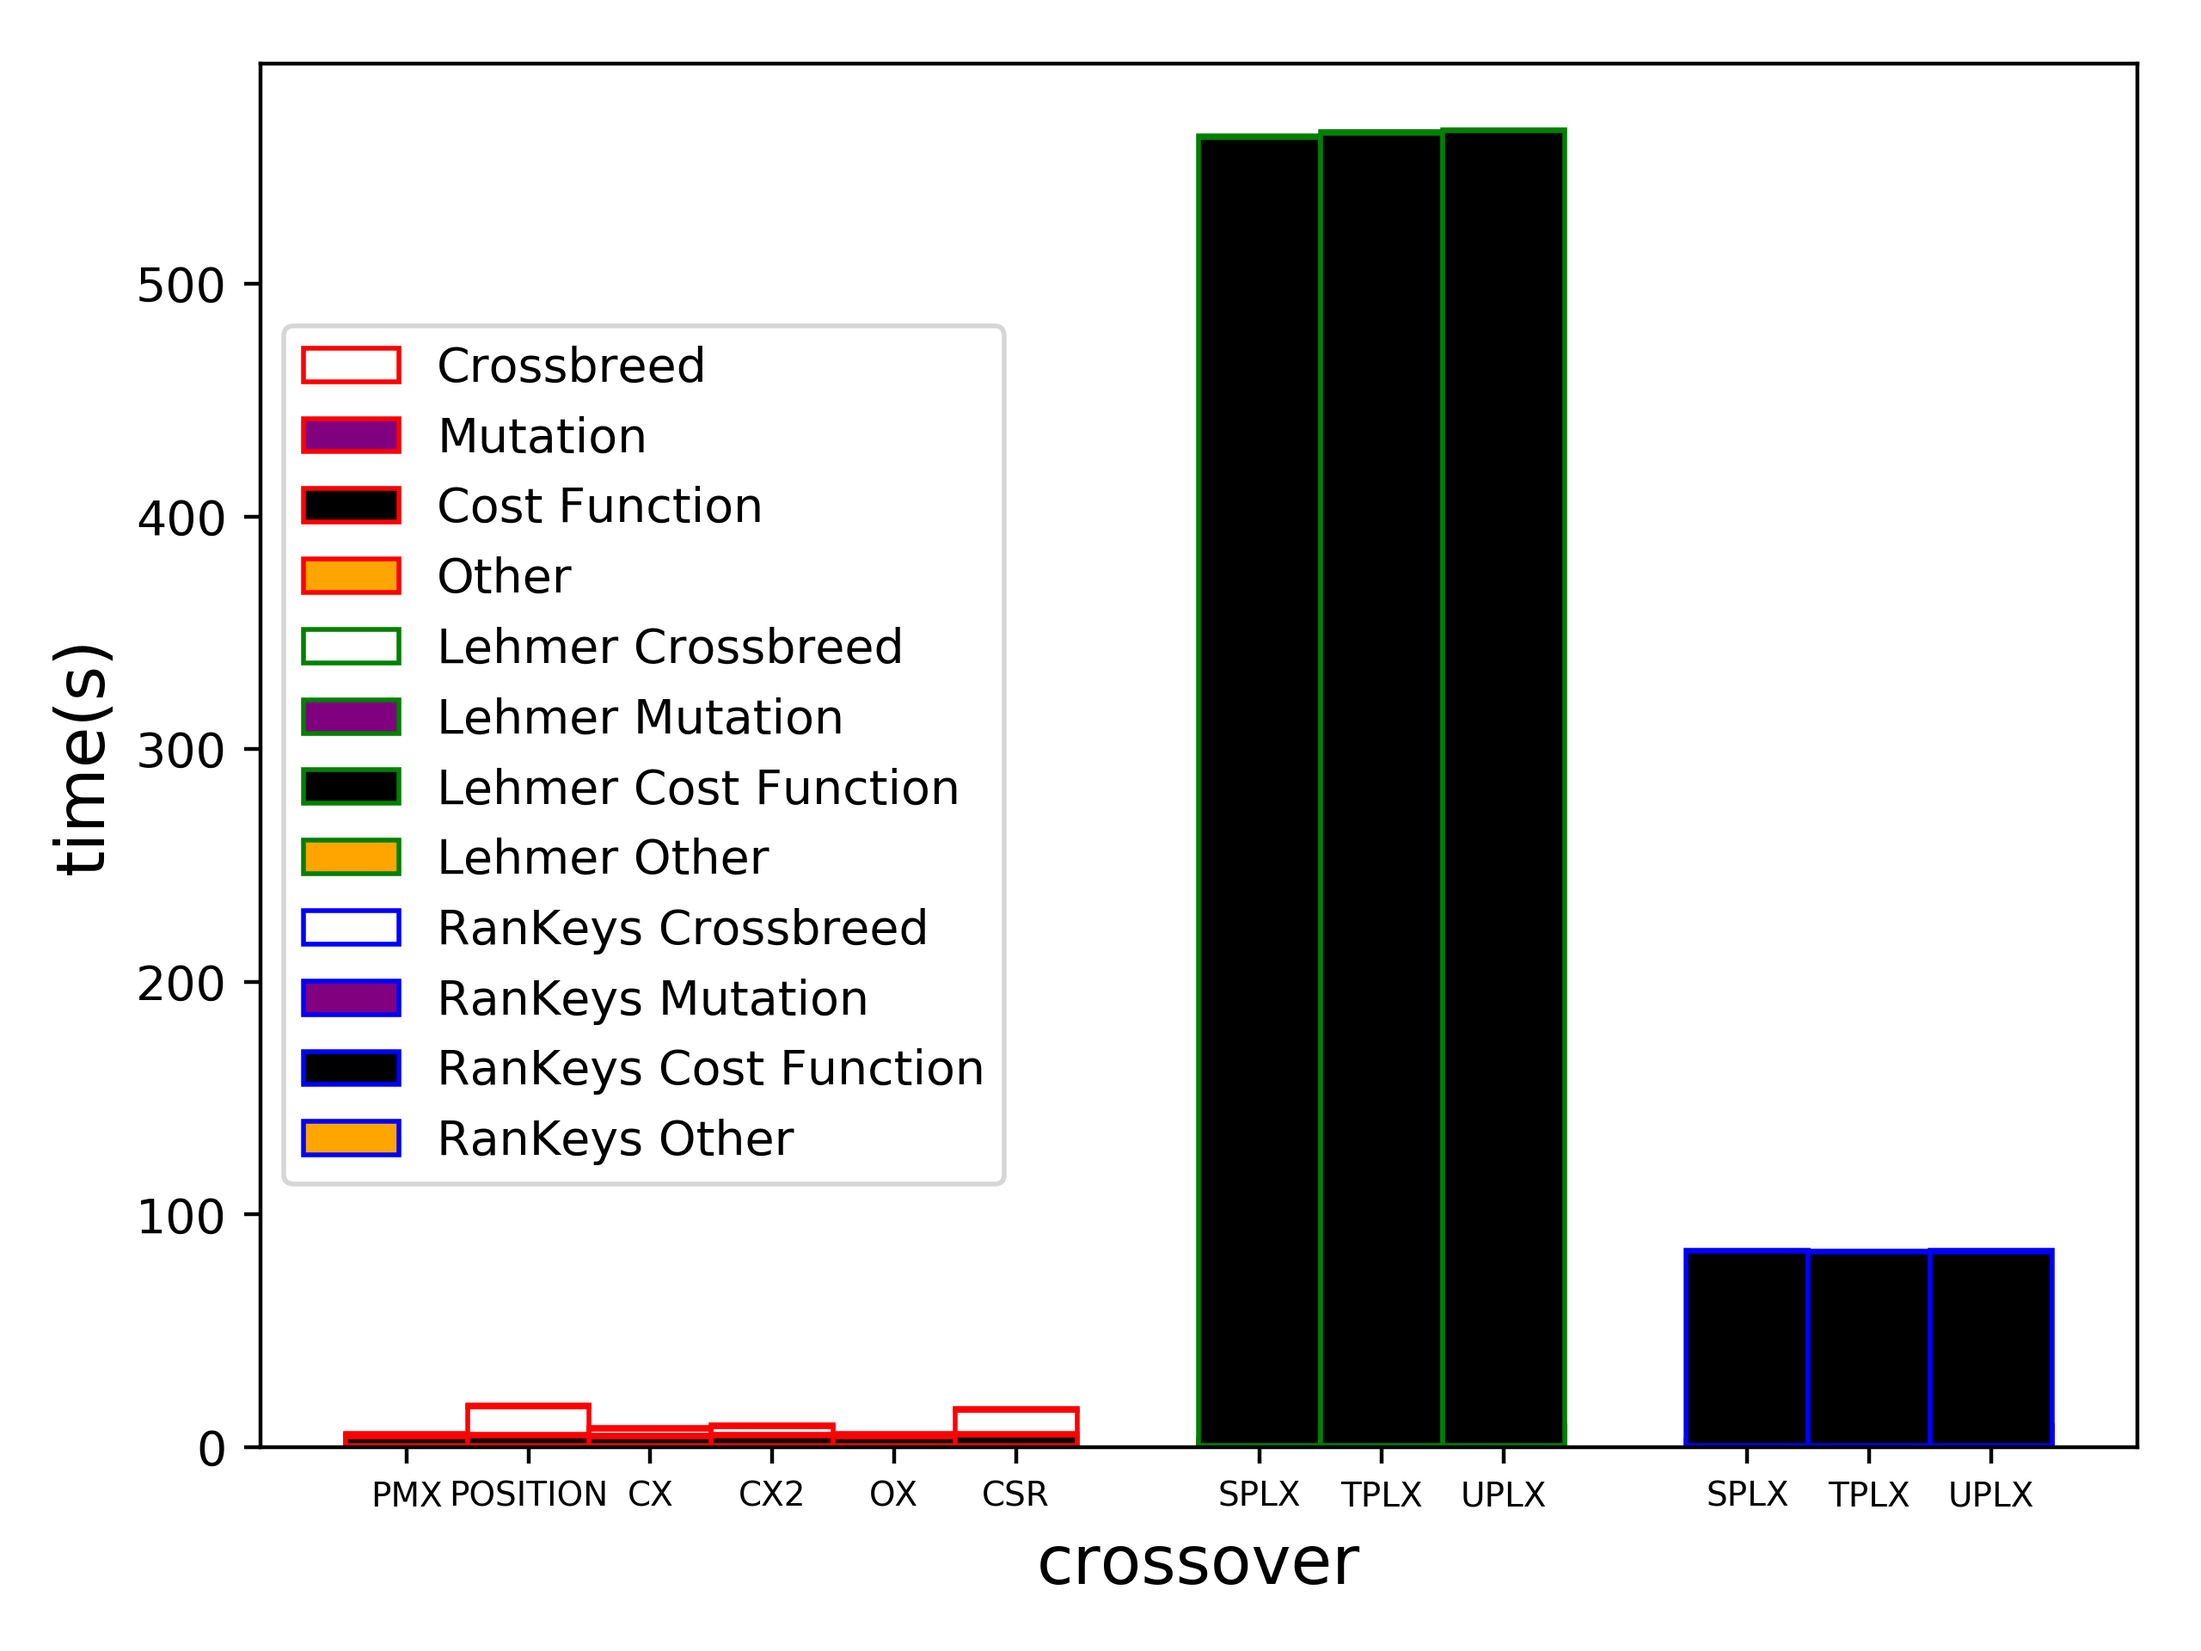
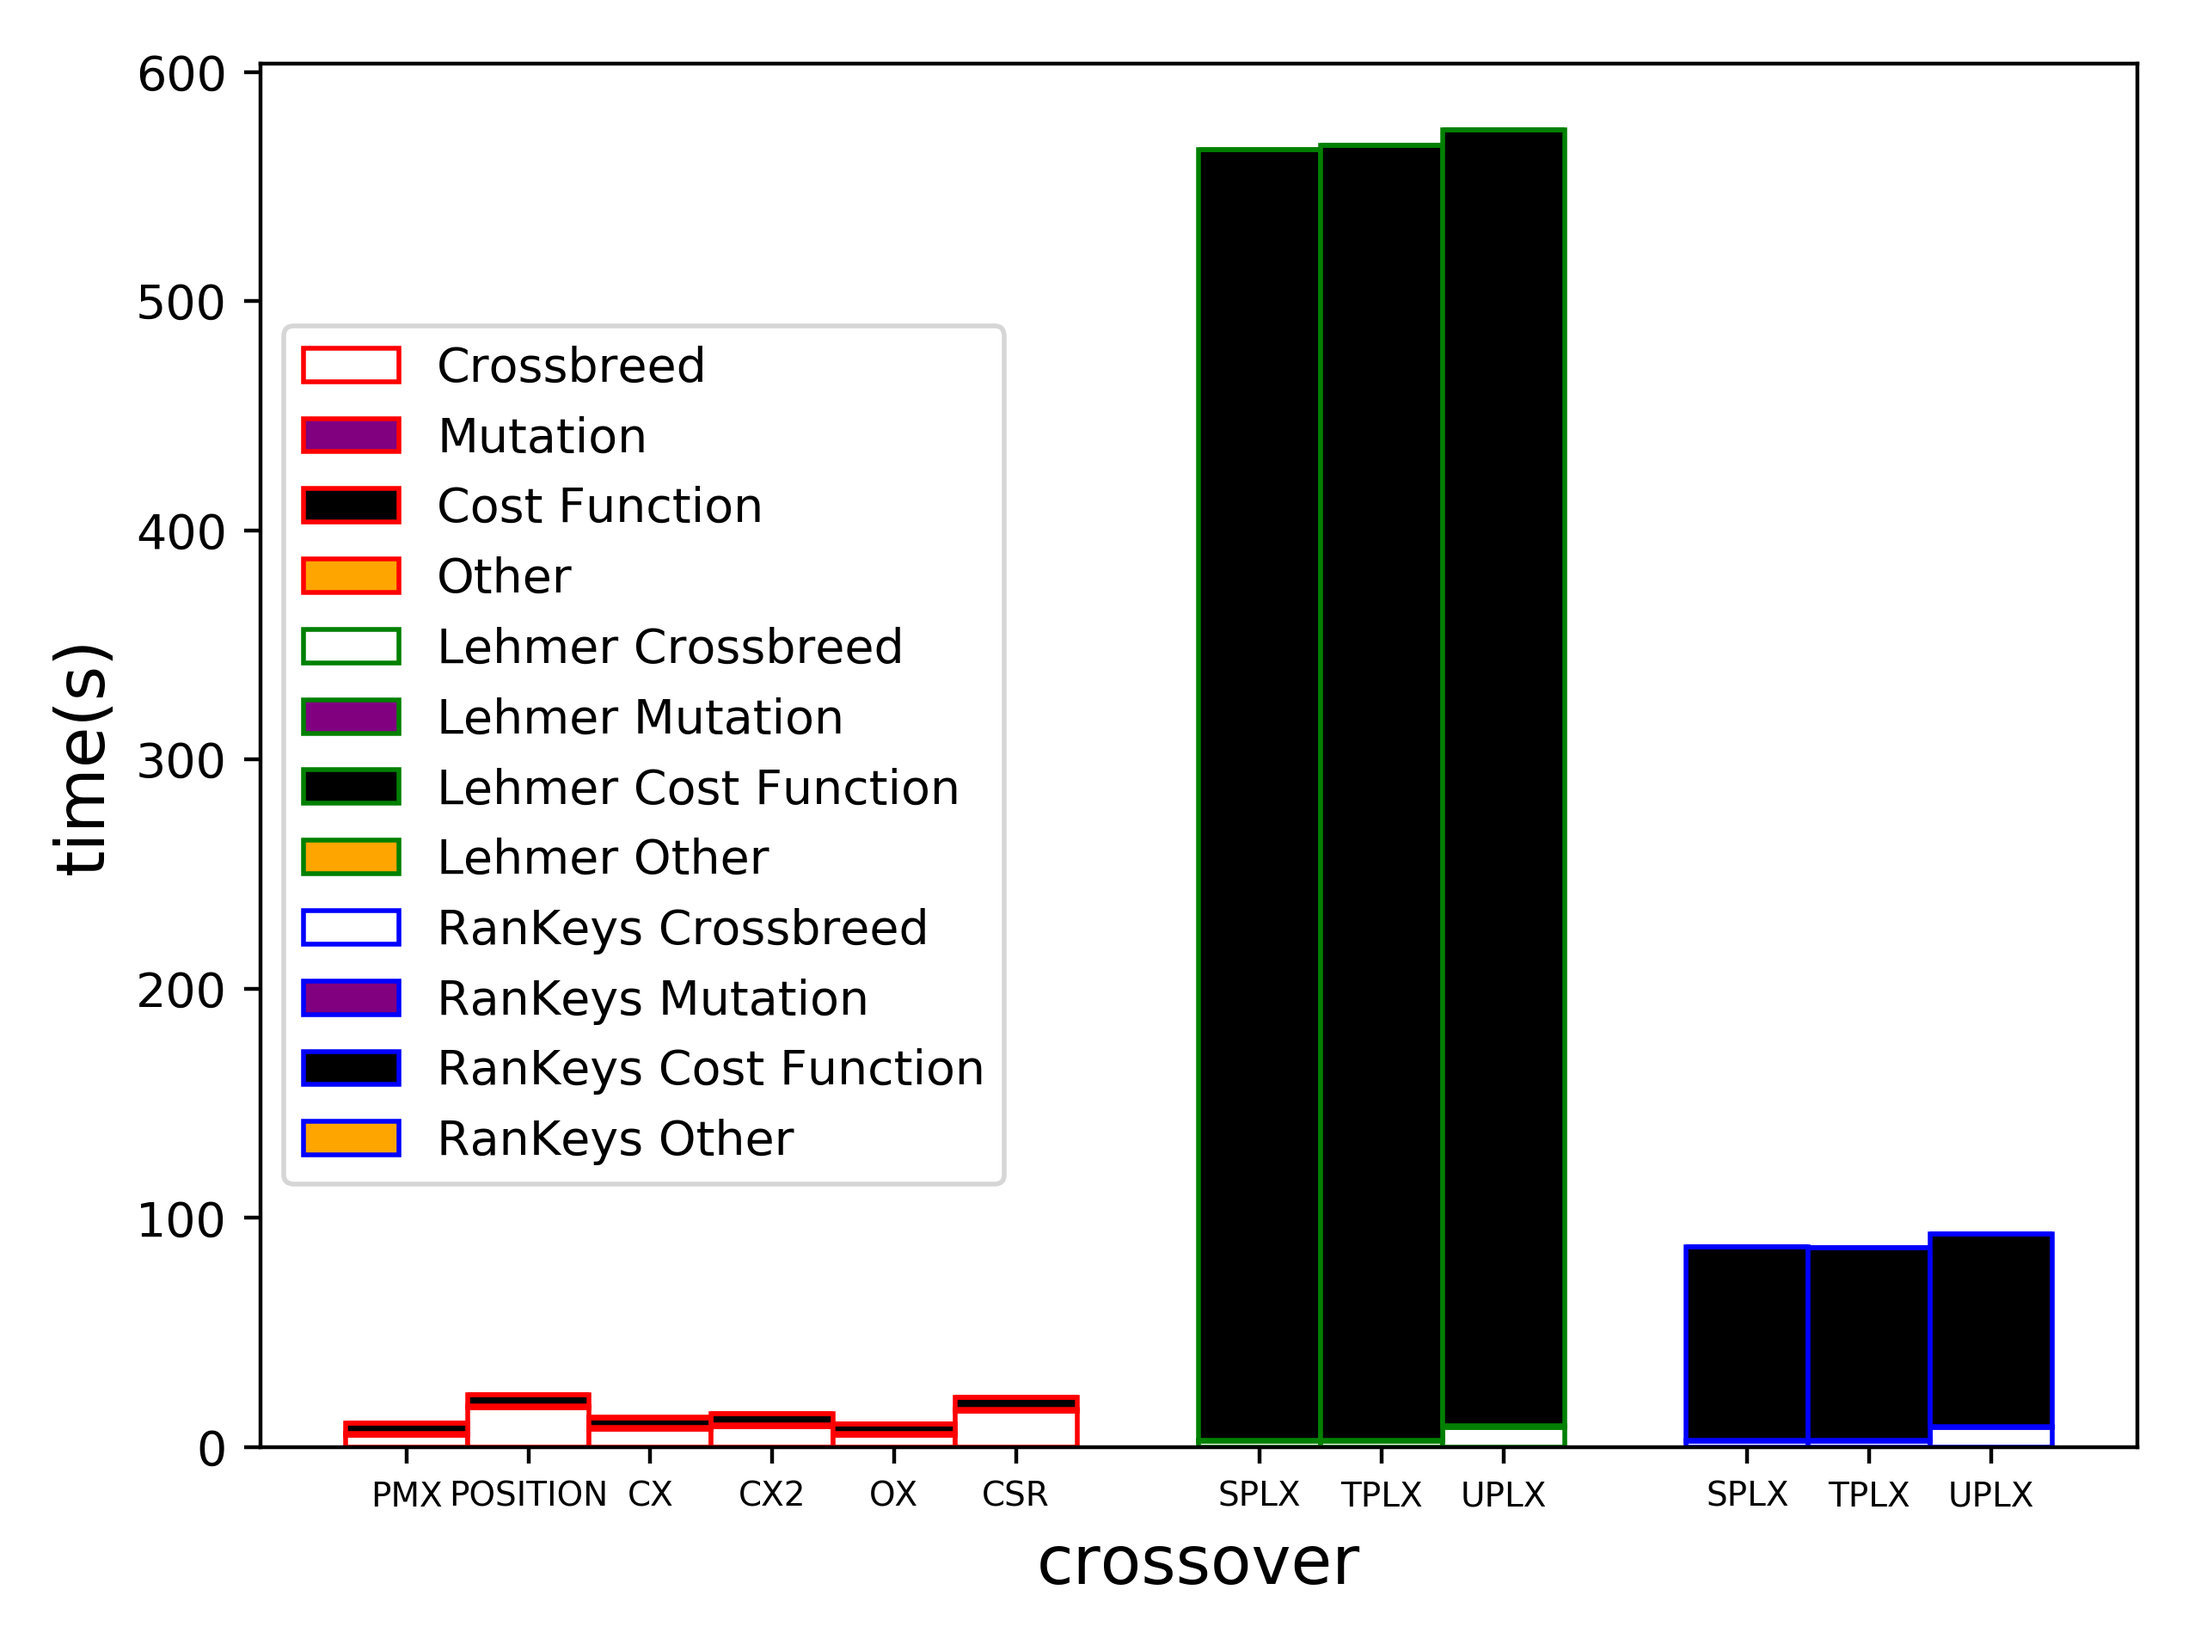
Fixed Stacked Bar Plot
- Fixed the generation of the stacked bar

diff --git a/GA_lapagos/EXPERIMENTS/TSP_ENCODING_XOVERS_MARCH30_2020/create_data_for_quality_runtime_bar_plot.py b/GA_lapagos/EXPERIMENTS/TSP_ENCODING_XOVERS_MARCH30_2020/create_data_for_quality_runtime_bar_plot.py
@@ -276,18 +276,18 @@ for tdf in list_of_dfs_random_keys:
 # PLOTS BAR plot with three groupings for time
 width = 1
 groupgap=1
-y1a=list_of_time_mutation_permutation
-y1b=list_of_time_crossbreed_permutation
-y1c=list_of_time_cost_function_permutation
-y1d=list_of_time_other_permutation
-y2a=list_of_time_mutation_lehmer
-y2b=list_of_time_crossbreed_lehmer
-y2c=list_of_time_cost_function_lehmer
-y2d=list_of_time_other_lehmer
-y3a=list_of_time_mutation_random_keys
-y3b=list_of_time_crossbreed_random_keys
-y3c=list_of_time_cost_function_random_keys
-y3d=list_of_time_other_random_keys
+y1a=np.array(list_of_time_mutation_permutation)
+y1b=np.array(list_of_time_crossbreed_permutation)
+y1c=np.array(list_of_time_cost_function_permutation)
+y1d=np.array(list_of_time_other_permutation)
+y2a=np.array(list_of_time_mutation_lehmer)
+y2b=np.array(list_of_time_crossbreed_lehmer)
+y2c=np.array(list_of_time_cost_function_lehmer)
+y2d=np.array(list_of_time_other_lehmer)
+y3a=np.array(list_of_time_mutation_random_keys)
+y3b=np.array(list_of_time_crossbreed_random_keys)
+y3c=np.array(list_of_time_cost_function_random_keys)
+y3d=np.array(list_of_time_other_random_keys)
 x1 = np.arange(len(y1a))
 x2 = np.arange(len(y2a))+groupgap+len(y1a)
 x3 = np.arange(len(y3a))+groupgap+len(y2a)+groupgap+len(y1a)
@@ -295,16 +295,16 @@ ind = np.concatenate((x1,x2,x3))
 fig, ax = plt.subplots()
 rects1a = ax.bar(x1, y1b, width, color='w',  edgecolor= "r",label="Crossbreed")
 rects1b = ax.bar(x1, y1a, width, bottom=y1b, color='purple',  edgecolor= "r",label="Mutation")
-rects1c = ax.bar(x1, y1c, width, bottom=y1a, color='black',  edgecolor= "r",label="Cost Function")
-rects1d = ax.bar(x1, y1d, width, bottom=y1c, color='orange',  edgecolor= "r",label="Other")
+rects1c = ax.bar(x1, y1c, width, bottom=y1a+y1b, color='black',  edgecolor= "r",label="Cost Function")
+rects1d = ax.bar(x1, y1d, width, bottom=y1c+y1a+y1b, color='orange',  edgecolor= "r",label="Other")
 rects2a = ax.bar(x2, y2b, width, color='w',  edgecolor= "g",label="Lehmer Crossbreed")
 rects2b = ax.bar(x2, y2a, width, bottom=y2b, color='purple',  edgecolor= "g",label="Lehmer Mutation")
-rects2c = ax.bar(x2, y2c, width, bottom=y2a, color='black',  edgecolor= "g",label="Lehmer Cost Function")
-rects2d = ax.bar(x2, y2d, width, bottom=y2c, color='orange',  edgecolor= "g",label="Lehmer Other")
+rects2c = ax.bar(x2, y2c, width, bottom=y2a+y2b, color='black',  edgecolor= "g",label="Lehmer Cost Function")
+rects2d = ax.bar(x2, y2d, width, bottom=y2c+y2a+y2b, color='orange',  edgecolor= "g",label="Lehmer Other")
 rects3a = ax.bar(x3, y3b, width, color='w',  edgecolor= "b",label="RanKeys Crossbreed")
 rects3b = ax.bar(x3, y3a, width, bottom=y3b, color='purple',  edgecolor= "b",label="RanKeys Mutation")
-rects3c = ax.bar(x3, y3c, width, bottom=y3a, color='black',  edgecolor= "b",label="RanKeys Cost Function")
-rects3d = ax.bar(x3, y3d, width, bottom=y3c, color='orange',  edgecolor= "b",label="RanKeys Other")
+rects3c = ax.bar(x3, y3c, width, bottom=y3a+y3b, color='black',  edgecolor= "b",label="RanKeys Cost Function")
+rects3d = ax.bar(x3, y3d, width, bottom=y3c+y3a+y3b, color='orange',  edgecolor= "b",label="RanKeys Other")
 ax.set_ylabel('time(s)',fontsize=14)
 ax.set_xlabel('crossover',fontsize=14)
 ax.set_xticks(ind)
@@ -313,8 +313,27 @@ plt.legend(loc='center left')
 plt.tight_layout()
 plt.savefig('group_times_exit'+exit_name+'_bm'+bench_name+'.png', dpi=400)
 
+width = 1
+groupgap=1
+y1a=np.array(list_of_time_mutation_permutation)
+y1b=np.array(list_of_time_crossbreed_permutation)
+y1c=np.array(list_of_time_cost_function_permutation)
+y1d=list_of_time_other_permutation
+x1 = np.arange(len(y1a))
+fig, ax = plt.subplots()
+rects1a = ax.bar(x1, y1b, width, color='w',  edgecolor= "r",label="Crossbreed")
+rects1b = ax.bar(x1, y1a, width, bottom=y1b, color='purple',  edgecolor= "g",label="Mutation")
+rects1c = ax.bar(x1, y1c, width, bottom=y1a+y1b, color='black',  edgecolor= "b",label="Cost Function")
+rects1d = ax.bar(x1, y1d, width, bottom=y1a+y1b+y1c, color='orange',  edgecolor= "w",label="Other")
+ax.set_ylabel('time(s)',fontsize=14)
+ax.set_xlabel('crossover',fontsize=14)
+ax.set_xticks(x1)
+ax.set_xticklabels((list_of_crossover_bm_permutation), fontsize=7)
+plt.legend(loc='upper left')
+plt.tight_layout()
+plt.savefig('PE_times_exit'+exit_name+'_bm'+bench_name+'.png', dpi=400)
 
-# PLOTS BAR plot with three groupings for time
+# PLOTS BAR plot with PE groupings for time
 width = 1
 groupgap=1
 y1=list_of_time_wall_permutation
